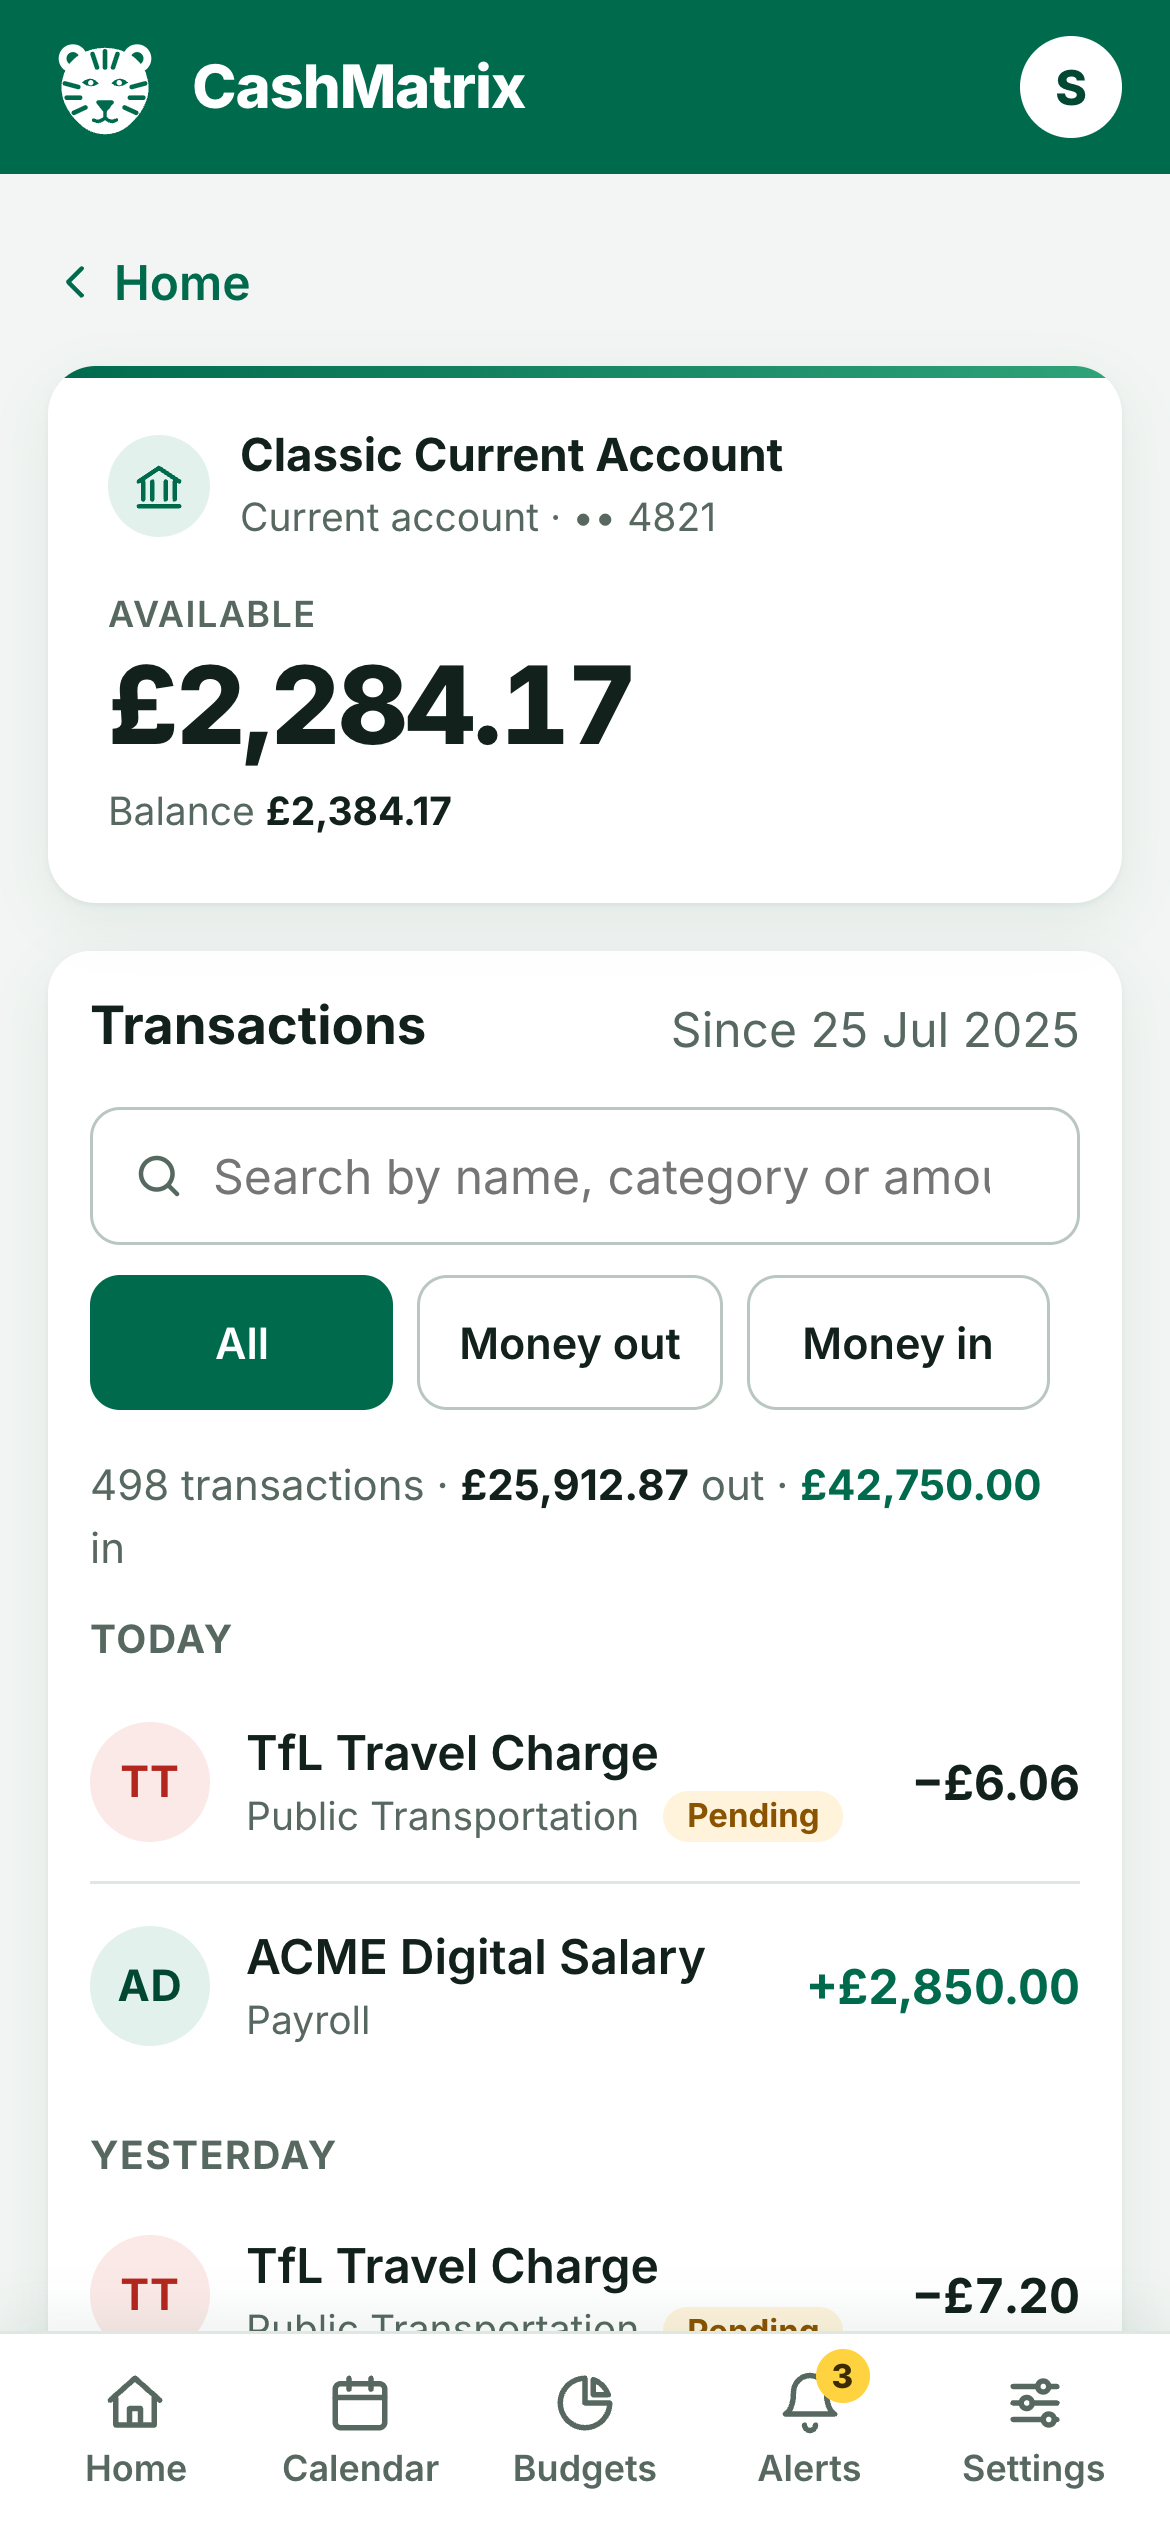
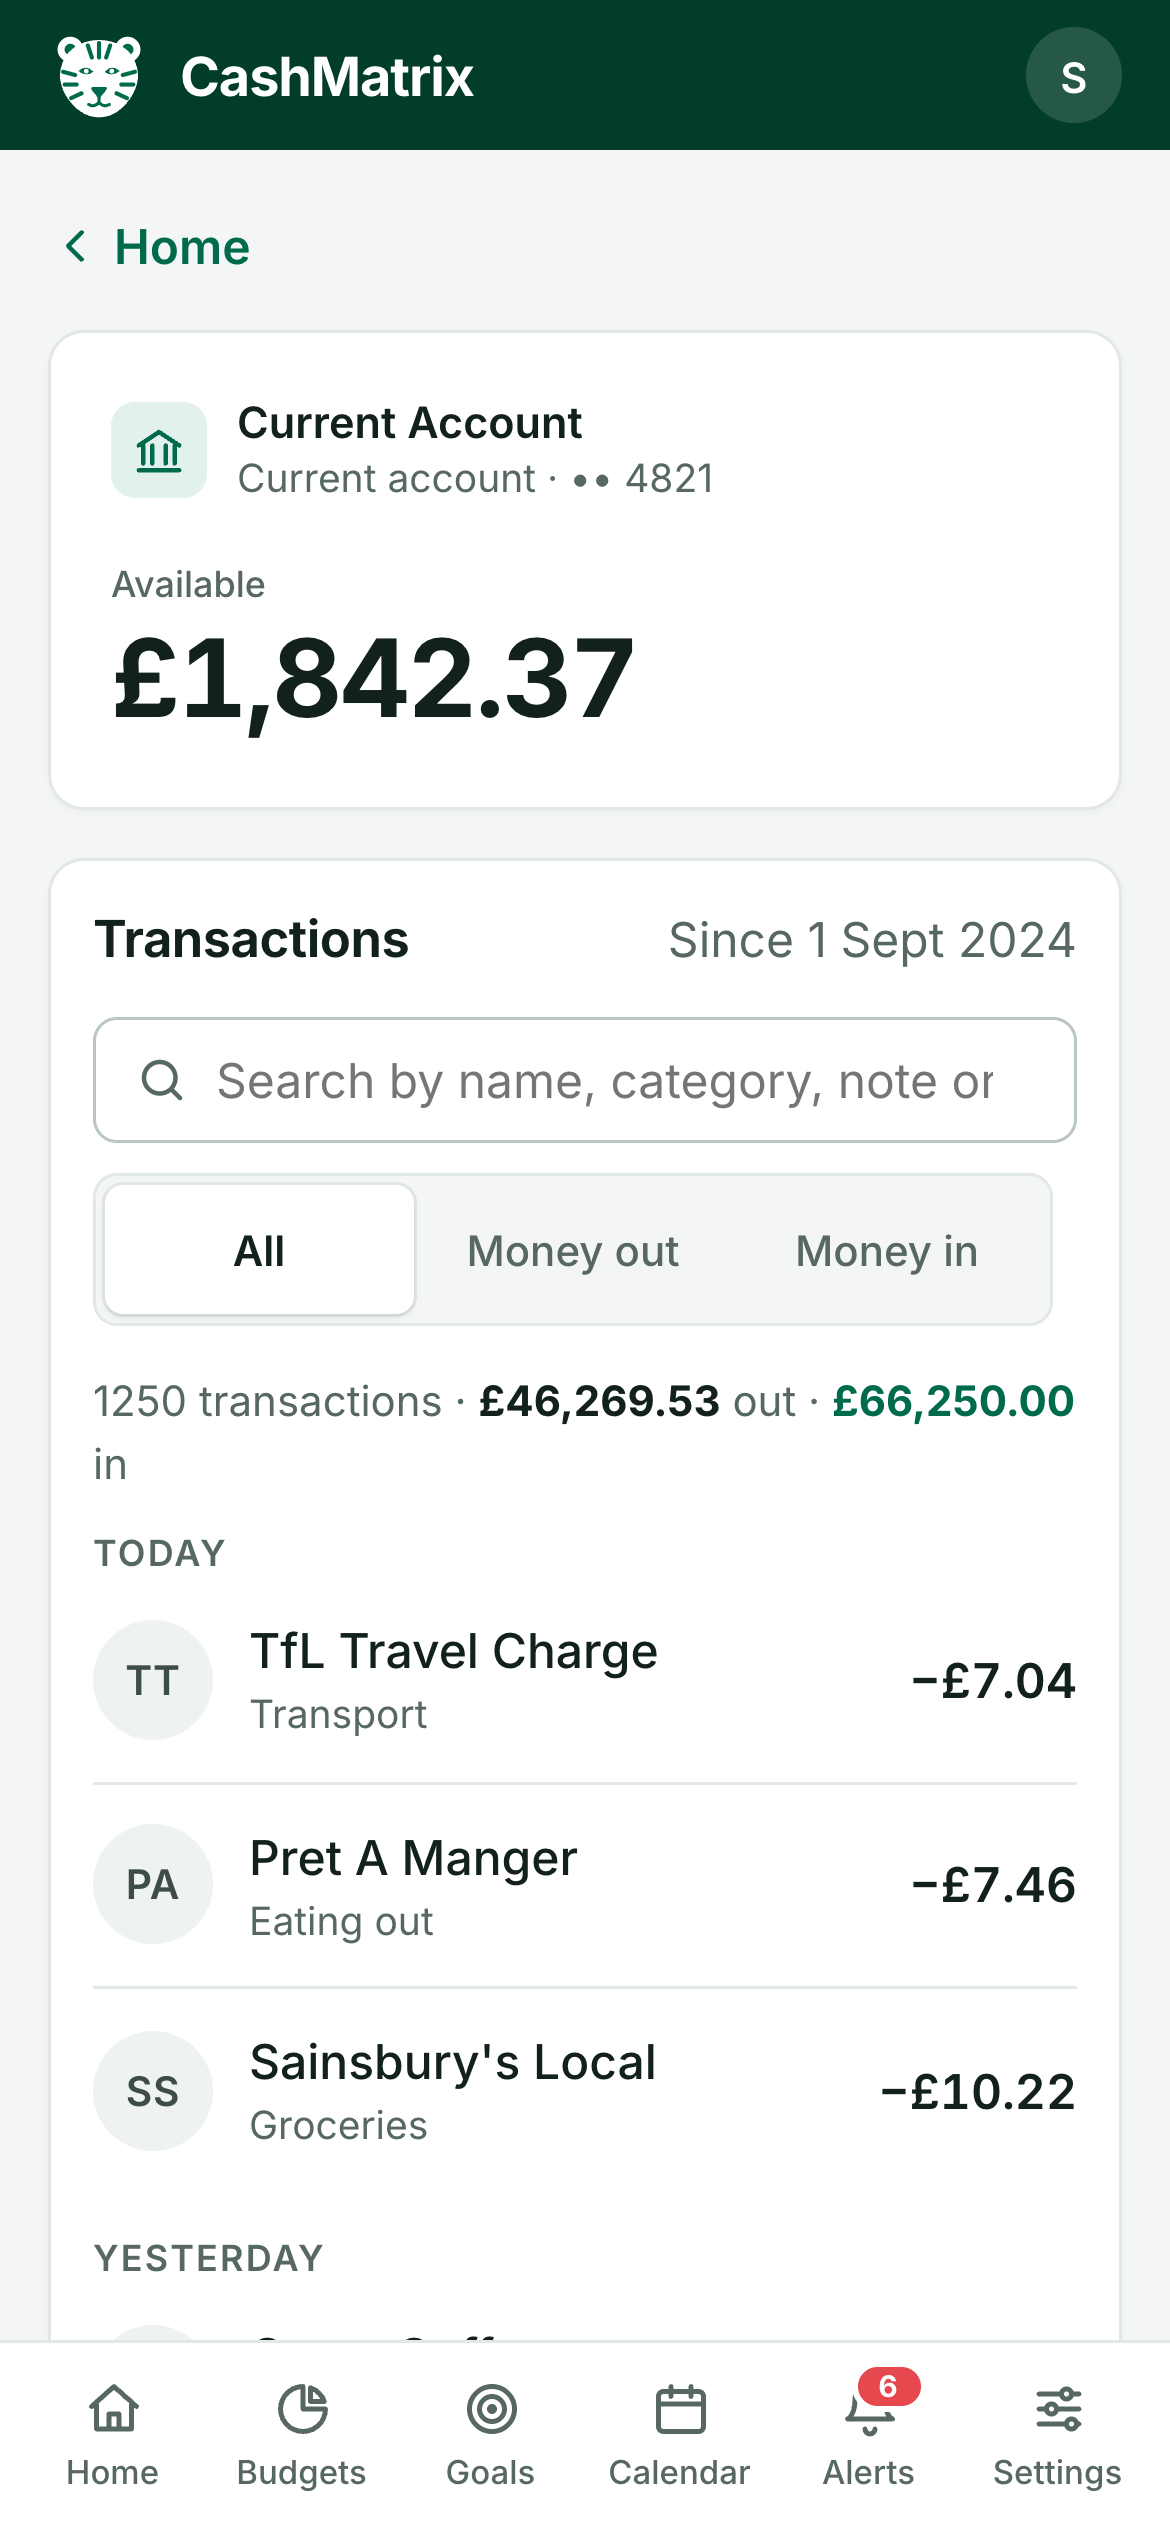
Retake the README screenshots from the demo account
All at the same sizes (desktop 1440x1000 and phone 390x844), showing the
redesign, price change alerts and the demo on the login screen. Lists the
new features and the CI checks, and drops iCloud's duplicate copies of
the screenshots.

Changed region(s): [[0.0, 0.0, 1.0, 0.9984], [0.7077, 0.6552, 0.9231, 0.8424], [0.4308, 0.8112, 0.5538, 0.8424]]

diff --git a/README.md b/README.md
@@ -35,6 +35,9 @@
 - **Bank connections** through Plaid (UK banks by default), with up to two years of history on the first import and a background sync every four hours
 - **A clear picture of your money**: balance after card debt, spending by category or retailer, and month-by-month trends compared with last month
 - **Subscriptions found for you**: weekly, monthly and yearly charges are spotted in your transactions and added to your calendar in one tap
+- **Try it without signing up**: a "Try the demo" button opens a read-only example account with two years of made-up UK spending
+- **Where the month is heading**: a forecast of this month's spending from what's gone out, the bills still to come and your usual everyday pace
+- **Price change alerts** when a bill or subscription on your calendar is charged at a new price, which then goes on the calendar
 - **Budgets** per category, with warnings at 80% and when you go over
 - **Savings goals** with a progress ring, a "save this much a month" plan when you set a date, and a message when you get there
 - **Regular saving**: £50 every week or month on your calendar, with the date you'll reach the goal; recorded for you if you have a standing order, or a nudge on the day if not
@@ -67,7 +70,7 @@ Monthly limits per category that turn amber near the limit and red when you go o
 ### Savings goals
 Put money aside for something and watch it fill up. With a target date, each goal says how much to save a month; with a regular saving, it says when you'll get there.
 
-<img src="docs/screenshots/desktop-goals.png" alt="Savings goals with progress rings, one goal reached" width="900">
+<img src="docs/screenshots/desktop-goals.png" alt="Savings goals with progress rings and a standing order" width="900">
 
 ### Monthly summary
 A look back at each month, with links into the transactions behind every figure.
@@ -75,9 +78,9 @@ A look back at each month, with links into the transactions behind every figure.
 <img src="docs/screenshots/desktop-summary.png" alt="Monthly summary showing spending, change from the month before, categories, biggest purchases and budgets" width="900">
 
 ### Alerts
-Budget warnings, payment reminders and money in / out, with an unread count on the bell.
+Budget warnings, payment reminders, price changes and money in / out, with an unread count on the bell.
 
-<img src="docs/screenshots/desktop-alerts.png" alt="Alerts list with budget warnings" width="900">
+<img src="docs/screenshots/desktop-alerts.png" alt="Alerts list with budget warnings, payment reminders and a price rise" width="900">
 
 ### On your phone
 
@@ -91,9 +94,9 @@ Budget warnings, payment reminders and money in / out, with an unread count on t
 </table>
 
 ### Sign in
-<img src="docs/screenshots/desktop-login.png" alt="Login screen with password and passkey options" width="900">
+<img src="docs/screenshots/desktop-login.png" alt="Login screen with password, passkey and demo options" width="900">
 
-<sub>All screenshots use made-up demo data.</sub>
+<sub>All screenshots use the made-up demo account.</sub>
 
 ## How it works
 
@@ -104,7 +107,7 @@ flowchart LR
     API -- accounts, transactions --> P[Plaid]
     API -- email --> SMTP[SMTP server]
     API -- Web Push --> WP[Browser push services]
-    S[Scheduled jobs:<br>bank sync, reminders, budget alerts] --> API
+    S[Scheduled jobs:<br>bank sync, reminders, budget and price alerts] --> API
 ```
 
 - The **React** frontend talks to a stateless **Spring Boot** REST API using JWTs (or passkeys to sign in).
@@ -167,9 +170,11 @@ flowchart LR
 ## Tests
 
 ```bash
-cd backend && ./mvnw test      # 100+ tests, in-memory database
-cd frontend && npm run lint
+cd backend && ./mvnw test                  # 140+ tests, in-memory database
+cd frontend && npm run lint && npm test    # ESLint and Vitest unit tests
 ```
+
+GitHub Actions runs both on every push and pull request.
 
 ## Deploying
 
